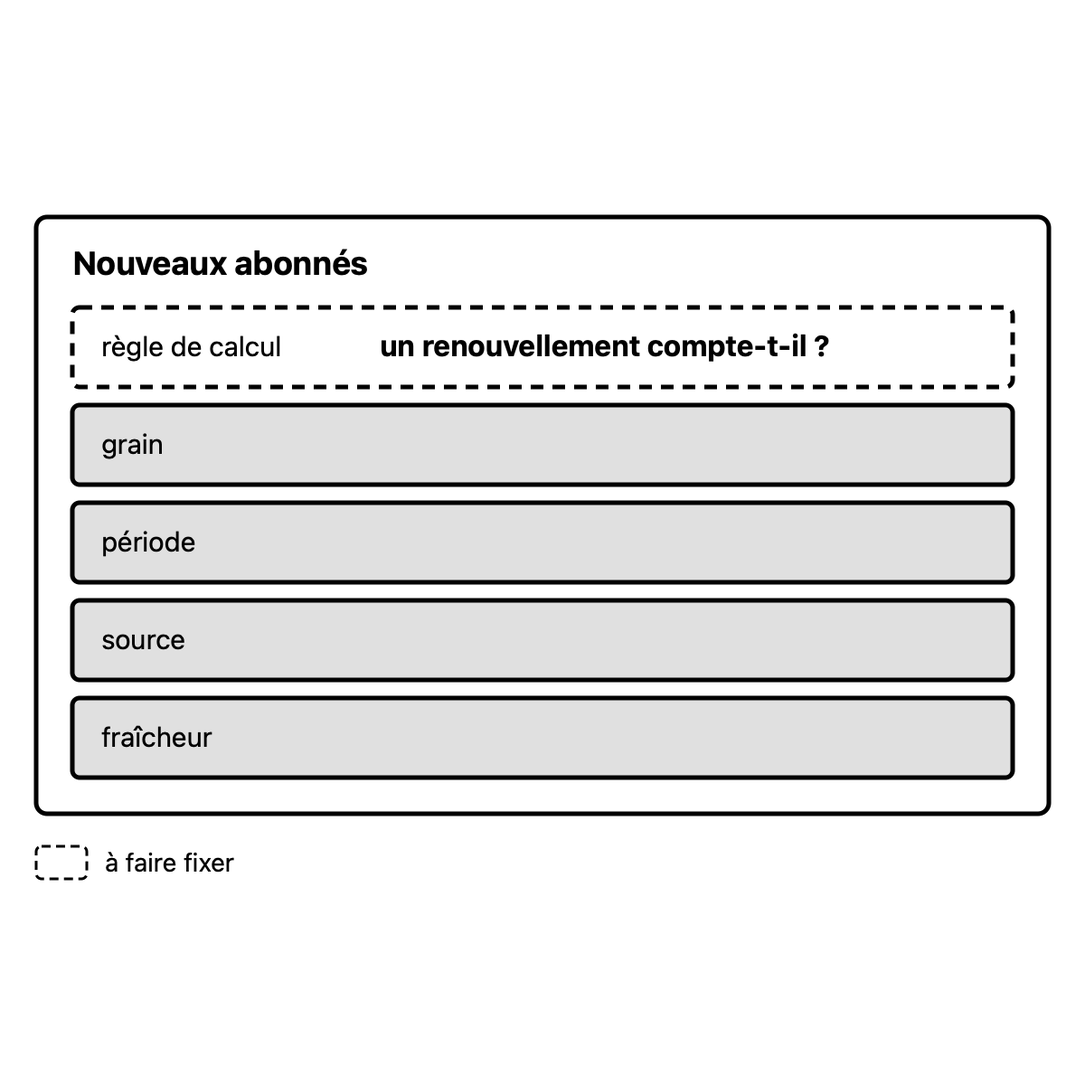
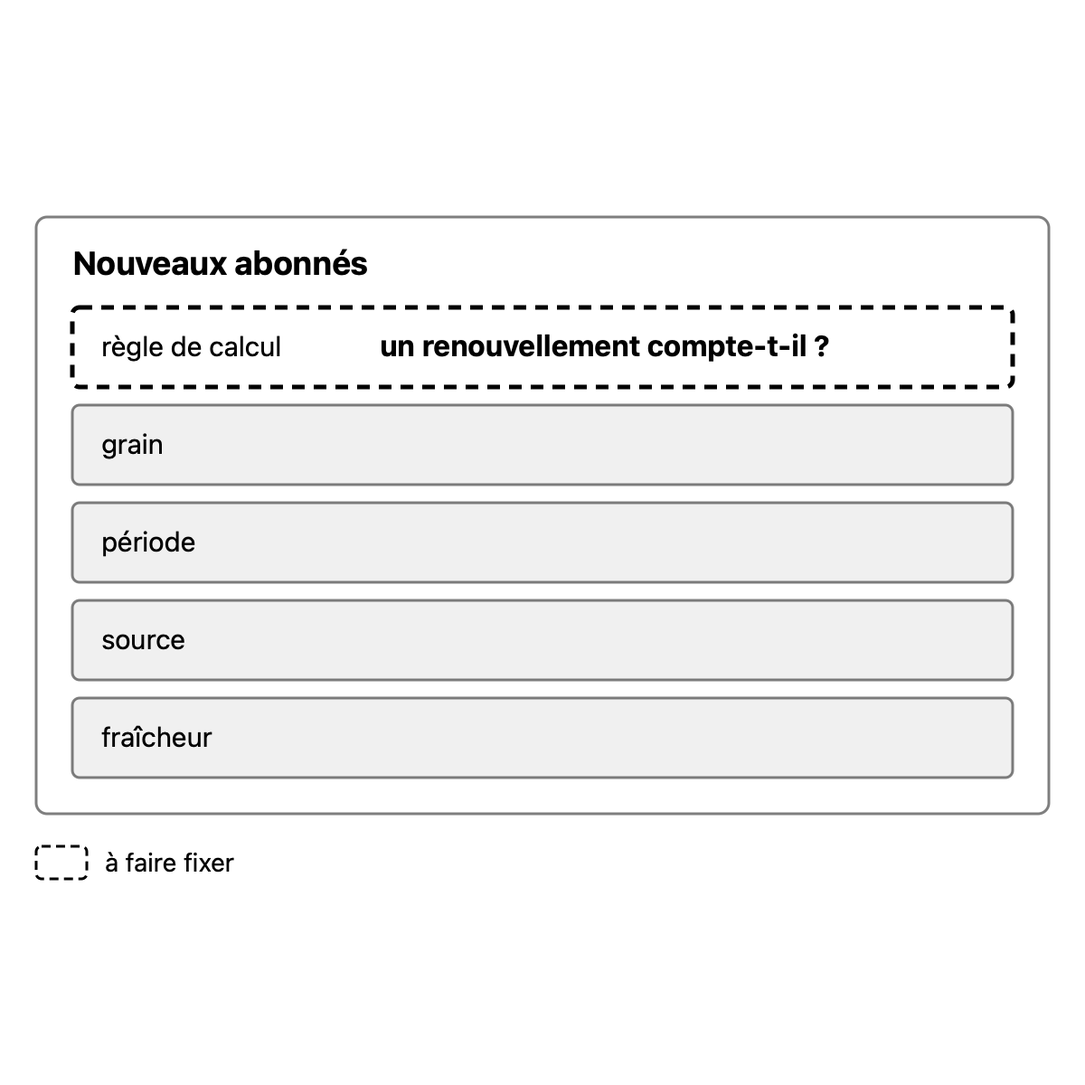
course(course:parcours-po): fix review findings of concept 12

Changed region(s): [[0.0308, 0.185, 0.9867, 0.7708]]

diff --git a/courses/parcours-po/concepts/12-donnees-produit/sources.md b/courses/parcours-po/concepts/12-donnees-produit/sources.md
@@ -6,24 +6,24 @@ DAMA UK) et sur un texte de loi (RGPD). Le contenu d'une définition d'indicateu
 texte de référence : c'est un choix du cours, conforme aux pratiques relevées. Les faits du fil
 rouge (relevés des stations, table des locations et identifiant de l'abonné, référentiel des
 quartiers, signalements par téléphone, locations très courtes, Sid, Charlotte, DoD de l'équipe
-vélos) sont inventés : ils n'ont pas de source. Les sections entre parenthèses sont celles du
-fichier du concept.
+vélos) sont inventés : ils n'ont pas de source. Les sections entre parenthèses sont celles de
+`concept.md` ou de `teaching.md`.
 
 ## Affirmations
 
 | Affirmation (section de `concept.md` ou de `teaching.md`) | Source | Ce qui a été vérifié | Nature |
 |---|---|---|---|
 | Ni le Scrum Guide ni les référentiels du PO ne disent comment définir un indicateur ou exprimer la qualité des données (Consensus et choix d'école) | [S11] ; `concepts/02-objectif-produit-resultat/sources.md` | Les objectifs CSPO et les domaines PSPO [S11] n'en parlent pas (relevé le 2026-10-22). Le Scrum Guide confie la valeur au PO sans dire comment la mesurer (déjà vérifié au concept 2) | consensus |
-| La qualité des données s'exprime en règles mesurables sur des dimensions (consensus des pratiques de la donnée) (L'essentiel, Consensus, 12b) | [S3], [S4], [S5] | Cadre de qualité des données du gouvernement britannique : « There are six core data quality dimensions, as defined by DAMA UK » ; chaque dimension s'y mesure (« Uniqueness measures the number of duplicates »). DAMA NL recense les dimensions de nombreuses sources : toutes passent par des dimensions. Consensus entre ces sources, pas un texte unique | consensus |
+| La qualité des données s'exprime en règles mesurables sur des dimensions (L'essentiel ; Consensus et choix d'école ; 12b) | [S3], [S4], [S5] | Cadre de qualité des données du gouvernement britannique : « There are six core data quality dimensions, as defined by DAMA UK » ; chaque dimension s'y mesure (« Uniqueness measures the number of duplicates »). DAMA NL recense les dimensions de nombreuses sources : toutes passent par des dimensions. Consensus entre ces sources, pas un texte unique | consensus |
 | La liste des dimensions est un choix d'école : six chez DAMA UK, d'autres listes ailleurs, parfois bien plus longues (Consensus et choix d'école) | [S3], [S4], [S5] | Six dimensions de DAMA UK reprises par le gouvernement britannique ; DAMA NL : recensement par source, dont DAMA-DMBOK 2. Date 2013 de DAMA UK : d'après sa reprise par le gouvernement britannique [S3] (voir « Non vérifié »). Recensement de DAMA NL : [S5]. Date 2017 du DMBOK 2 : d'après le recensement de DAMA NL [S5]. Le DMBOK 2, payant, n'a pas été lu | école |
-| La qualité dépend de l'usage : le niveau exigé varie selon la finalité (Consensus et choix d'école ; 12b, « Des chiffres fiables ») | [S4] | « data quality can be thought of as 'fitness for purpose' » ; « The level of quality required will vary depending on the purpose » ; fraîcheur : « Timeliness means different things for different uses » [S3] | consensus |
-| Données personnelles : finalité et minimisation sont des principes du RGPD (texte de loi, pas un choix d'école) (Consensus, 12c) | [S6] | Art. 5, 1, b (limitation des finalités) et c (minimisation), texte reproduit par la CNIL ; voir 12c | consensus |
+| La qualité dépend de l'usage : le niveau exigé varie selon la finalité (Consensus et choix d'école ; 12b ; Banque d'exemples) | [S4] | « data quality can be thought of as 'fitness for purpose' » ; « The level of quality required will vary depending on the purpose » ; fraîcheur : « Timeliness means different things for different uses » [S3] | consensus |
+| Données personnelles : finalité et minimisation sont des principes du RGPD (texte de loi, pas un choix d'école) (Consensus et choix d'école ; 12c) | [S6] | Art. 5, 1, b (limitation des finalités) et c (minimisation), texte reproduit par la CNIL ; voir 12c | consensus |
 | Le PO fait écrire, fixer ou demander ; le calcul et les tests sont le comment des Developers (L'essentiel) | `concepts/01-produit-et-po/sources.md` ; `plan.md` | Le quoi au PO, le comment aux Developers : déjà vérifié au concept 1. Application aux données : choix du cours (public cible, consignes T-018f) | cours |
-| Indicateur : valeur calculée par le produit pour ses utilisateurs (12a1 Explication) | [S10] | Glossaire du cours (« Indicateur », concept 12) | cours |
-| Contenu d'une définition : ce qu'il compte (règle de calcul, avec ce qu'il inclut et exclut), grain, période, source, fraîcheur (Choix du cours ; 12a ; 12a1 Explication) | [S10] ; [S2], [S8], [S9] | Liste du glossaire du cours (« Définition d'un indicateur »). Aucun texte de référence ne fixe cette liste : choix du cours. Elle recoupe les pratiques : dbt définit une mesure par son agrégation, son filtre (« Consider it as your WHERE clause ») et le grain de sa dimension de temps [S8] ; Klipfolio : « the measure to calculate, the aggregation to apply, the time grain to use, and any filters » [S9, marketing]. Le grain vient de Kimball [S2]. Ne pas présenter la liste comme un standard | cours |
-| Le grain dit ce que représente une valeur de l'indicateur (par station, par quartier) ; chez Kimball, une ligne de la table de faits  (Choix d'école, 12a1 Explication) | [S2] | Kimball Group : « The grain establishes exactly what a single fact table row represents » ; « the pivotal step in a dimensional design » ; « a binding contract on the design ». Le terme vient de la modélisation dimensionnelle (table de faits) ; l'étendre à un indicateur est l'usage du cours, conforme à [S8] (« Define the data's grain on the time dimension column ») | école |
+| Indicateur : valeur calculée par le produit pour ses utilisateurs (12a1) | [S10] | Glossaire du cours (« Indicateur », concept 12) | cours |
+| Contenu d'une définition : ce qu'il compte (règle de calcul, avec ce qu'il inclut et exclut), grain, période, source, fraîcheur (Consensus et choix d'école ; 12a ; 12a1) | [S10] ; [S2], [S8], [S9] | Liste du glossaire du cours (« Définition d'un indicateur »). Aucun texte de référence ne fixe cette liste : choix du cours. Elle recoupe les pratiques : dbt définit une mesure par son agrégation, son filtre (« Consider it as your WHERE clause ») et le grain de sa dimension de temps [S8] ; Klipfolio : « the measure to calculate, the aggregation to apply, the time grain to use, and any filters » [S9, marketing]. Le grain vient de Kimball [S2]. Ne pas présenter la liste comme un standard | cours |
+| Le grain dit ce que représente une valeur de l'indicateur (par station, par quartier) ; chez Kimball, une ligne de la table de faits (Consensus et choix d'école ; 12a1) | [S2] | Kimball Group : « The grain establishes exactly what a single fact table row represents » ; « the pivotal step in a dimensional design » ; « a binding contract on the design ». Le terme vient de la modélisation dimensionnelle (table de faits) ; l'étendre à un indicateur est l'usage du cours, conforme à [S8] (« Define the data's grain on the time dimension column ») | école |
 | La fraîcheur d'un indicateur (âge maximal des données) fait partie de sa définition ; c'est aussi une dimension de qualité (timeliness) (12a, 12b) | [S3] ; `concepts/08-criteres-regles/sources.md` | DAMA UK : « Timeliness indicates whether the data is available when expected and needed ». « Fraîcheur » traduit timeliness dans le glossaire du cours : traduction du cours (timeliness dit « disponible quand on en a besoin », la fraîcheur vise l'âge des données : sens voisin, pas identique). Fraîcheur dans un critère : déjà vérifié au concept 8 (8b) | cours |
-| Corrigé « vélos disponibles par station » : vélo à quai et louable ; par station ; au dernier relevé ; relevés des stations ; moins de 15 minutes (banque 12a) | `storyline.md` | Règles fixées du fil rouge (« un vélo disponible est un vélo à quai et louable » ; fraîcheur visée : moins de 15 minutes ; source : relevés des stations, rafraîchis toutes les 5 minutes), inventées. « Au dernier relevé » comme période : prochoix du cours, cohérente avec la source (relevés en continu) |  |
+| Corrigé « vélos disponibles par station » : vélo à quai et louable ; par station ; au dernier relevé ; relevés des stations ; moins de 15 minutes (banque 12a) | `storyline.md` | Règles fixées du fil rouge (« un vélo disponible est un vélo à quai et louable » ; fraîcheur visée : moins de 15 minutes ; source : relevés des stations, rafraîchis toutes les 5 minutes), inventées. « Au dernier relevé » comme période : choix du cours, cohérente avec la source (relevés en continu) |  |
 | Exercice « locations par quartier » pour Charlotte : manquent la règle des locations très courtes et le choix du quartier (station de départ ou d'arrivée) ; c'est Charlotte qui les fixe ; sources : table des locations (accès pas encore obtenu) et référentiel des quartiers (la collectivité) ; période : le mois (banque 12a) | `storyline.md` ; `concepts/08-criteres-regles/sources.md` | Faits du fil rouge, inventés : locations très courtes non fixées ; référentiel des quartiers, propriétaire la collectivité ; table des locations, accès demandé pas obtenu ; « nombre de locations par quartier sur le mois ». Quartier de départ ou d'arrivée : laissé non fixé (consignes T-018f). Le PO fait fixer la règle, il ne la tranche pas : renvoi 8a2, déjà vérifié |  |
 | La définition vaut pour l'indicateur partout où il est publié ; un critère d'acceptation est propre à une story (12a, Pièges) | `concepts/11-dor-dod/sources.md` (S3, Cohn) ; `concepts/08-criteres-regles/sources.md` | Critère propre à une story (« conditions of satisfaction are specific to a given product backlog item », Cohn) : déjà vérifié aux concepts 8 et 11. « Vaut partout où il est publié » : formulation du cours (déduction), sans source externe | cours |
 | La DoD de l'équipe vélos exige que chaque indicateur publié ait sa définition écrite ; la DoD exige la définition, elle n'en fixe pas les règles (12a, renvoi 11a) | `storyline.md` ; `concepts/11-dor-dod/sources.md` | Fait fixé F-b du fil rouge, inventé (ajouté en rétrospective, situation de 11a). Documentation dans une DoD data : exemple d'Ambler, déjà vérifié au concept 11 | cours |
@@ -37,12 +37,12 @@ fichier du concept.
 | La story de Charlotte ne remplit pas la DoR tant que l'accès n'est pas obtenu, même avec une définition complète (banque 12a2, nuance) | `concepts/11-dor-dod/sources.md` | DoR de l'équipe vélos (accès obtenu) : déjà tracé au concept 11 (11b) |  |
 | Les six dimensions de DAMA UK : exactitude, complétude, unicité, cohérence, fraîcheur, validité (12b) | [S3] | Accuracy « data reflects reality » ; Completeness « all the data required for a particular use is present » ; Uniqueness « measures the number of duplicates » ; Consistency « data values do not conflict with other values » ; Timeliness « available when expected and needed » ; Validity « conforms to the expected format, type, and range ». Traductions : celles du glossaire du cours (« Qualité des données ») | école |
 | Les relevés en double relèvent de l'unicité (12b, promesse de 11a) | [S3] | « Uniqueness measures the number of duplicates » ; la page précise qu'un enregistrement peut être en double même si certains champs diffèrent. Relevés en double : défaut connu du fil rouge, inventé | école |
-| Où écrire une exigence de qualité : DoD si elle vaut pour toute story (test des relevés en double) ; critère d'acceptation si elle est propre à une story ; définition de l'indicateur si elle le concerne (par exemple sa fraîcheur) (12b) | `concepts/11-dor-dod/sources.md` ; `concepts/08-criteres-regles/sources.md` ; [S10] | DoD ou critère : test de Cohn, déjà vérifié au concept 11 (11a) . Le troisième lieu (la définition de l'indicateur) est un choix du cours, sans source externe | cours |
+| Où écrire une exigence de qualité : DoD si elle vaut pour toute story (test des relevés en double) ; critère d'acceptation si elle est propre à une story ; définition de l'indicateur si elle le concerne (par exemple sa fraîcheur) (12b) | `concepts/11-dor-dod/sources.md` ; `concepts/08-criteres-regles/sources.md` ; [S10] | DoD ou critère : test de Cohn, déjà vérifié au concept 11 (11a). Le troisième lieu (la définition de l'indicateur) est un choix du cours, sans source externe | cours |
 | Signalements par téléphone absents de l'appli : limite de la source, pas défaut que la plateforme corrige ; à écrire dans la définition de l'indicateur des vélos signalés et à rendre visible à ses utilisateurs (banque 12b) | `storyline.md` ; [S4], [S3] | Fait du fil rouge (« Les signalements par téléphone ne sont pas saisis dans l'appli »), inventé ; source tenue par l'équipe appli. Communiquer la qualité aux utilisateurs : cadre britannique, « Communicate quality to users regularly and clearly to ensure data is used appropriately » [S4]. Lien avec la complétude (« all the data required for a particular use ») : rapprochement du cours. « Limite de la source, pas défaut à corriger par la plateforme » : raisonnement du cours (la plateforme ne crée pas les signalements manquants) | cours |
 | Nombre de vélos signalés par semaine, regardé par Maud pour fixer le nombre de techniciens en tournée ; Diego propose une story pour « corriger » ; si Maud a besoin des signalements par téléphone, la question va à ceux qui les reçoivent (non fixé au fil rouge) et au propriétaire de la source (équipe appli) pour leur saisie, dépendance envers une autre équipe (banque 12b) | `storyline.md` ; `concepts/10-hors-perimetre-dependances/sources.md` | Maud fixe chaque semaine le nombre de techniciens ; signalements tenus par l'équipe appli : faits du fil rouge, inventés. L'indicateur publié et la réplique de Diego : situation d'exercice (voir aussi concept 5, story de Maud). Dépendance envers une autre équipe : concept 10b2, déjà tracé |  |
 | Ce qui compte comme « en panne » (signalé ou constaté) se précise au concept 15 (banque 12b, nuance) | `plan.md` ; `storyline.md` | Situation 15 du fil rouge ; renvoi sans enseignement |  |
 | « Fiables » est un mot flou ; on le traduit en règles mesurables par dimension (complétude, unicité, fraîcheur), au niveau que dit l'utilisateur (banque 12b, rechange) | [S3], [S4] ; `concepts/07-invest/sources.md` | Dimensions mesurables [S3] ; niveau selon l'usage (« The level of quality required will vary depending on the purpose ») [S4] ; mot flou : concept 7a2, déjà tracé. Les règles citées (chaque location rattachée à un quartier, aucune comptée deux fois, derniers jours du mois comptés) sont des exemples d'exercice ; leur rattachement aux dimensions applique les définitions de [S3] | consensus |
-| Mesurer une dimension, c'est poser une règle chiffrable (un taux, une date) (12b, « Des chiffres fiables », Réponse attendue) | [S3] | Chaque dimension y est définie comme mesurable (« measures the number of duplicates » ; format, type et plage pour la validité). Les exemples chiffrés du fichier sont des propositions du cours, sans fixer de fait du fil rouge | consensus |
+| Mesurer une dimension, c'est poser une règle chiffrable (un taux, une date) (12b ; Banque d'exemples) | [S3] | Chaque dimension y est définie comme mesurable (« measures the number of duplicates » ; format, type et plage pour la validité). Les exemples chiffrés du fichier sont des propositions du cours, sans fixer de fait du fil rouge | consensus |
 | Donnée personnelle : toute information se rapportant à une personne physique identifiée ou identifiable, y compris indirectement par un identifiant (12c) | [S6] | RGPD, art. 4, 1 : « toute information se rapportant à une personne physique identifiée ou identifiable » ; identification indirecte « notamment par référence à un identifiant, tel qu'un nom, un numéro d'identification ». Définition du glossaire du cours [S10], conforme | consensus |
 | Piège « croire qu'un identifiant n'est pas une donnée personnelle » : l'identifiant de l'abonné reste une donnée personnelle ; une donnée pseudonymisée qu'on peut rattacher à une personne reste personnelle (12c, Pièges) | [S6], [S7], [S13] | Art. 4, 1 (identifiant cité comme moyen d'identification). Considérant 26 : « Les données à caractère personnel qui ont fait l'objet d'une pseudonymisation et qui pourraient être attribuées à une personne physique par le recours à des informations supplémentaires devraient être considérées comme des informations concernant une personne physique identifiable ». Art. 4, 5 : la pseudonymisation empêche l'attribution à une personne sauf à utiliser des informations supplémentaires conservées séparément ; l'EDPB : les données pseudonymisées « restent donc des données à caractère personnel » [S7]. Ici l'opérateur connaît le nom et les coordonnées de ses abonnés (source Abonnés du fil rouge), il sait à qui correspond un identifiant : l'identifiant reste rattachable. Nuance de l'arrêt de 2025 [S13], lu d'après des commentaires (voir « Non vérifié ») | consensus |
 | Limitation des finalités : données collectées pour des finalités déterminées, explicites et légitimes (12c) | [S6] | Art. 5, 1, b : « collectées pour des finalités déterminées, explicites et légitimes, et ne pas être traitées ultérieurement d'une manière incompatible avec ces finalités » (texte de la CNIL) | consensus |
@@ -53,7 +53,8 @@ fichier du concept.
 | Une finalité se dit avant d'utiliser les données, pas après ; « peut-être plus tard » n'en est pas une ; une nouvelle finalité fait une nouvelle demande (banque 12c rechange, Pièges) | [S6] | Art. 5, 1, b : « collectées pour des finalités déterminées, explicites et légitimes, et ne pas être traitées ultérieurement d'une manière incompatible avec ces finalités ». La demande de la plateforme est un nouvel usage de données déjà collectées par l'opérateur : d'où « avant d'utiliser », choix du cours. « Nouvelle demande » : choix du cours | cours |
 | « On l'anonymisera dans l'entrepôt » : la collecte reste trop large ; un identifiant remplacé par un autre reste rattachable tant que quelqu'un garde la correspondance (banque 12c rechange, erreurs) | [S6], [S7] | Minimisation à la collecte (art. 5, 1, c) ; considérant 26 et art. 4, 5 (pseudonymisation : attribution possible avec des informations supplémentaires). L'identifiant d'exemple « 48213 » est inventé | consensus |
 | Sid (DSI) demande de justifier chaque colonne : c'est la minimisation appliquée, pas une mauvaise volonté (banque 12c, renvoi 11b) | `storyline.md` ; [S6] | Fait du fil rouge (« la DSI demande de justifier chaque colonne demandée »), inventé. Lien avec l'art. 5, 1, c : choix du cours | cours |
-| Le délégué à la protection des données (rôle générique, s'il y en a un) conseille sur la règle de droit, que le PO ne fait pas (12c, Explication, Réponse attendue de « Prenons toute la table », Pièges) | [S12] | Art. 39, 1, a : « informer et conseiller le responsable du traitement […] ainsi que les employés qui procèdent au traitement » ; b : « contrôler le respect du présent règlement » ; art. 38, 1 : « associé, d'une manière appropriée et en temps utile, à toutes les questions relatives à la protection des données ». Aucun acteur du fil rouge : le nommer comme rôle, sans dire que l'opérateur en a un nommé (l'obligation d'en désigner un, art. 37, n'a pas été vérifiée pour ce cas) | consensus |
+| Le délégué à la protection des données (rôle générique, s'il y en a un) conseille sur la règle de droit, que le PO ne fait pas (12c ; Banque d'exemples ; Pièges) | [S12] | Art. 39, 1, a : « informer et conseiller le responsable du traitement […] ainsi que les employés qui procèdent au traitement » ; b : « contrôler le respect du présent règlement » ; art. 38, 1 : « associé, d'une manière appropriée et en temps utile, à toutes les questions relatives à la protection des données ». Aucun acteur du fil rouge : le nommer comme rôle, sans dire que l'opérateur en a un nommé (l'obligation d'en désigner un, art. 37, n'a pas été vérifiée pour ce cas) | consensus |
+| Un indicateur est une valeur calculée par le produit, un livrable ; la mesure de résultat juge si le produit atteint son objectif ; les deux ont besoin d'une définition complète (Consensus et choix d'école, voisins) | `concepts/02-objectif-produit-resultat/sources.md` | Déjà vérifié au concept 2 : un indicateur est un livrable, qui sert aussi de mesure de résultat quand on s'en sert pour juger le produit | cours |
 | Mesure de résultat de l'objectif produit et ses points non fixés (12a1 Les cinq cases ; banque 12a, rechange ; concept 2, 2c) | `concepts/02-objectif-produit-resultat/sources.md` | Déjà vérifié au concept 2 |  |
 | La règle non fixée que le PO fait fixer (8a2) ; la fraîcheur dans un critère (12a2 ; 12b ; concept 8, 8b) | `concepts/08-criteres-regles/sources.md` | Déjà vérifié au concept 8 |  |
 | Stories de Charlotte, dépendance à la DSI (banque 12a2 ; 12b ; concept 10) | `concepts/10-hors-perimetre-dependances/sources.md` | Déjà vérifié au concept 10 |  |
@@ -73,7 +74,7 @@ fichier du concept.
 | S7 | RGPD, considérant 26, texte reproduit par la CNIL ; EDPB, communiqué sur ses lignes directrices sur la pseudonymisation | https://www.cnil.fr/fr/reglement-europeen-protection-donnees ; https://www.edpb.europa.eu/news/edpb-adopts-pseudonymisation-guidelines-and-paves-the-way-to-improve-cooperation-with_fr | primaire (texte de loi ; autorité européenne) | 2026-10-22 |
 | S8 | dbt Labs, « Creating metrics » (documentation du Semantic Layer) | https://docs.getdbt.com/docs/build/metrics-overview | marketing (documentation d'un éditeur : un exemple de pratique, pas une norme) | 2026-10-22 |
 | S9 | Klipfolio, « What is a metric? » (glossaire) | https://www.klipfolio.com/glossary/metric | marketing | 2026-10-22 |
-| S10 | Glossaire du cours, lignes « Indicateur », « Définition d'un indicateur », « Qualité des données », « Donnée personnelle » | `glossary.md` | primaire (interne : définition du cours) | 2026-10-22 |
+| S10 | Glossaire du cours, lignes « Indicateur », « Définition d'un indicateur », « Qualité des données », « Donnée personnelle » |  | primaire (interne : définition du cours) | 2026-10-22 |
 | S11 | Scrum Alliance, *CSPO Learning Objectives*, janvier 2022 (mis en forme 2/2024) ; Scrum.org, Professional Scrum Product Owner I (domaines de l'évaluation) | https://www.scrumalliance.org/media/certifications/los/cspo_learning_objectives_2022.pdf ; https://www.scrum.org/assessments/professional-scrum-product-owner-i-certification | primaire (et marketing pour la certification) | 2026-10-22 |
 | S12 | RGPD, art. 37 à 39 (chapitre IV), texte reproduit par la CNIL | https://www.cnil.fr/fr/reglement-europeen-protection-donnees/chapitre4 | primaire (texte de loi) | 2026-10-22 |
 | S13 | Cour de justice de l'UE, arrêt du 4 septembre 2025, CEPD c/ CRU, C-413/23 P (lu d'après des commentaires de cabinets : Inside Privacy, Skadden) | https://www.insideprivacy.com/eu-data-protection/eu-court-of-justice-clarifies-the-concept-of-personal-data-in-the-context-of-a-transfer-of-pseudonymized-data-to-third-parties | secondaire (arrêt non lu) | 2026-10-22 |

diff --git a/construction/notes/S1-10-12-report.md b/construction/notes/S1-10-12-report.md
@@ -1,6 +1,6 @@
 # Migration report: concept 12
 
-Workflow `migrate-concept`, course `parcours-po`, concept folder `concepts/12-donnees-produit/`. Paths in the course folder are relative to it; the old files are named from their repository folder (`parcours-po`, `parcours-po-website`).
+Workflow `migrate-concept` (run `wf_d348c0e3-b92`), course `parcours-po`, concept folder `concepts/12-donnees-produit/`. Paths in the course folder are relative to it; the old files are named from their repository folder (`parcours-po`, `parcours-po-website`).
 Old files: `parcours-po/course/concepts/12-donnees-produit.md` (CF), `parcours-po/course/sources/12-donnees-produit.md` (SF), `parcours-po-website/src/content/concepts/fr/12-donnees-produit.mdx` (MDX), `parcours-po-website/src/components/schemas/Schema12.astro` (ASTRO).
 
 ## Summary
@@ -42,15 +42,15 @@ Corrections after the run (contributor, SPEC.md 7.2): the run drew each panel wi
 
 - Title: Définir un indicateur : la fiche à cinq cases (exemple inventé pour l'illustration)
 - Caption: 12a : sur la fiche d'un indicateur à cinq cases, la case qu'on ne peut pas remplir reste à faire fixer.
-- Sub-concept: 12a
-- Drawn: the fiche « Nouveaux abonnés » (subject, `primary`), five cases in order; four solid, « règle de calcul » dashed with « un renouvellement compte-t-il ? » (state: to be fixed); a key « à faire fixer ». The two output views and their note are dropped (another idea: the definition holds wherever the indicator is published, kept in the reader text); the case values are dropped (not in concept.md).
+- Sub-concept: 12a2
+- Drawn: the fiche « Nouveaux abonnés » and four solid cases (context, `muted`), five cases in order; the subject, « règle de calcul », « règle de calcul » dashed with « un renouvellement compte-t-il ? » (`primary`, the only full-weight element; state: to be fixed); a key « à faire fixer ». The two output views and their note are dropped (another idea: the definition holds wherever the indicator is published, kept in the reader text); the case values are dropped (not in concept.md).
 
 #### recu-mal-jamais-recu.svg
 
 - Title: Distinguer ce qui se corrige de ce qui manque
 - Caption: 12b : ce que la source n'envoie jamais est une limite de la source, et non un défaut que la plateforme corrige.
 - Sub-concept: 12b
-- Drawn: the platform (context, `muted`); a « relevé en double » entering it (contrast, `secondary`, low opacity, « reçu mal : se corrige (unicité) »); « donnée que la source n'envoie pas » outside, dashed, stopped by a bar, `primary` opacity 1, with « jamais reçu : limite de la source » (subject). « s'écrit et se montre » is dropped (prescription: reader text). The caption changed so that the diagram has one idea, its subject.
+- Drawn: the platform (context, `muted`); a « relevé en double » entering it (contrast, `secondary`, low opacity, « reçu mal : se corrige (unicité) »); « donnée que la source n'envoie pas » outside, dashed, stopped by a bar at the platform's edge, `primary` opacity 1, with « jamais reçu : limite de la source » (subject). « s'écrit et se montre » is dropped (prescription: reader text). The caption changed so that the diagram has one idea, its subject.
 
 #### colonnes-finalite.svg
 
@@ -99,3 +99,5 @@ The run itself failed on four `sources` failures, fixed in the output under the 
 - sources.md reference S10, type « interne (définition du cours) »: written « primaire (interne : définition du cours) » (ruling on « interne »).
 - concept.md stances cited S1 (twice) and S13 was cited by no claim: the stances carry the ids of the site's MDX, whose list of references is numbered from S1 = Kimball, while sources.md keeps the numbering of the old sources file (S2 = Kimball, « Pas de S1 »). All stance refs were mapped to the sources.md ids (S1 to S2, S2 to S3, S3 to S4, S4 to S5, S5 to S6, S6 to S7, S7 to S8, S8 to S9, S9 to S11); S1 was Kimball, hence S2. The MDX claim « une donnée pseudonymisée qu'on peut rattacher à une personne reste personnelle » cites its S11 (the 2025 judgment, S13 here): S13 is attached to that claim, in the « Pseudonymisée » stance and in its row of sources.md (rule C).
 - teaching.md: the first line of « Faits du fil rouge utilisés » capitalised; the « Schéma » section describes the new drawings; the cross-reference rows of sources.md name a section of the concept.
+
+Fresh review of PR #195 (2 blocking, fixed): fiche redrawn with the context `muted` and only the open case `primary`, declared 12a2; « Schéma » no longer says the diagrams are shown after the answer; 12b arrow and bar aligned with the text; sources.md section names, typos, empty S10 link, and the neighbors row (indicator is an output) restored.

diff --git a/courses/parcours-po/concepts/12-donnees-produit/teaching.md b/courses/parcours-po/concepts/12-donnees-produit/teaching.md
@@ -280,13 +280,12 @@ faits du fil rouge. Le prof ne demande jamais à l'apprenant de fixer une règle
 
 ## Schéma
 
-Trois schémas, un par sous-concept, chacun montré dans la correction, jamais avant la réponse.
-Les cas sont inventés pour l'illustration (à dire sur le schéma : « cas inventé ») : ils ne
-fixent aucun fait du fil rouge.
-1. **12a** : la fiche de l'indicateur « Nouveaux abonnés » (cas inventé), un cadre plein qui
+Trois schémas, un par sous-concept. Les cas sont inventés pour l'illustration : ils ne fixent
+aucun fait du fil rouge.
+1. **12a2** : la fiche de l'indicateur « Nouveaux abonnés » (cas inventé), un cadre discret qui
    contient cinq cases dans l'ordre : règle de calcul, grain, période, source, fraîcheur. Quatre
-   cases sont pleines ; la règle de calcul est en pointillé et porte la question « un
-   renouvellement compte-t-il ? ». Une clé nomme le pointillé : « à faire fixer ».
+   cases sont discrètes ; la règle de calcul, en pointillé et seule au trait plein, porte la
+   question « un renouvellement compte-t-il ? ». Une clé nomme le pointillé : « à faire fixer ».
 2. **12b** : la plateforme, un cadre à droite. Un relevé en double entre dans le cadre, en trait
    discret, avec « reçu mal : se corrige (unicité) ». Une donnée que la source n'envoie pas reste
    dehors, en pointillé, arrêtée par une barre au bord du cadre, avec « jamais reçu : limite de

diff --git a/courses/parcours-po/concepts/12-donnees-produit/concept.md b/courses/parcours-po/concepts/12-donnees-produit/concept.md
@@ -34,7 +34,7 @@ diagrams:
   - file: fiche-cinq-cases.svg
     title: "Définir un indicateur : la fiche à cinq cases (exemple inventé pour l'illustration)"
     caption: "12a : sur la fiche d'un indicateur à cinq cases, la case qu'on ne peut pas remplir reste à faire fixer."
-    subconcept: 12a
+    subconcept: 12a2
   - file: recu-mal-jamais-recu.svg
     title: "Distinguer ce qui se corrige de ce qui manque"
     caption: "12b : ce que la source n'envoie jamais est une limite de la source, et non un défaut que la plateforme corrige."
